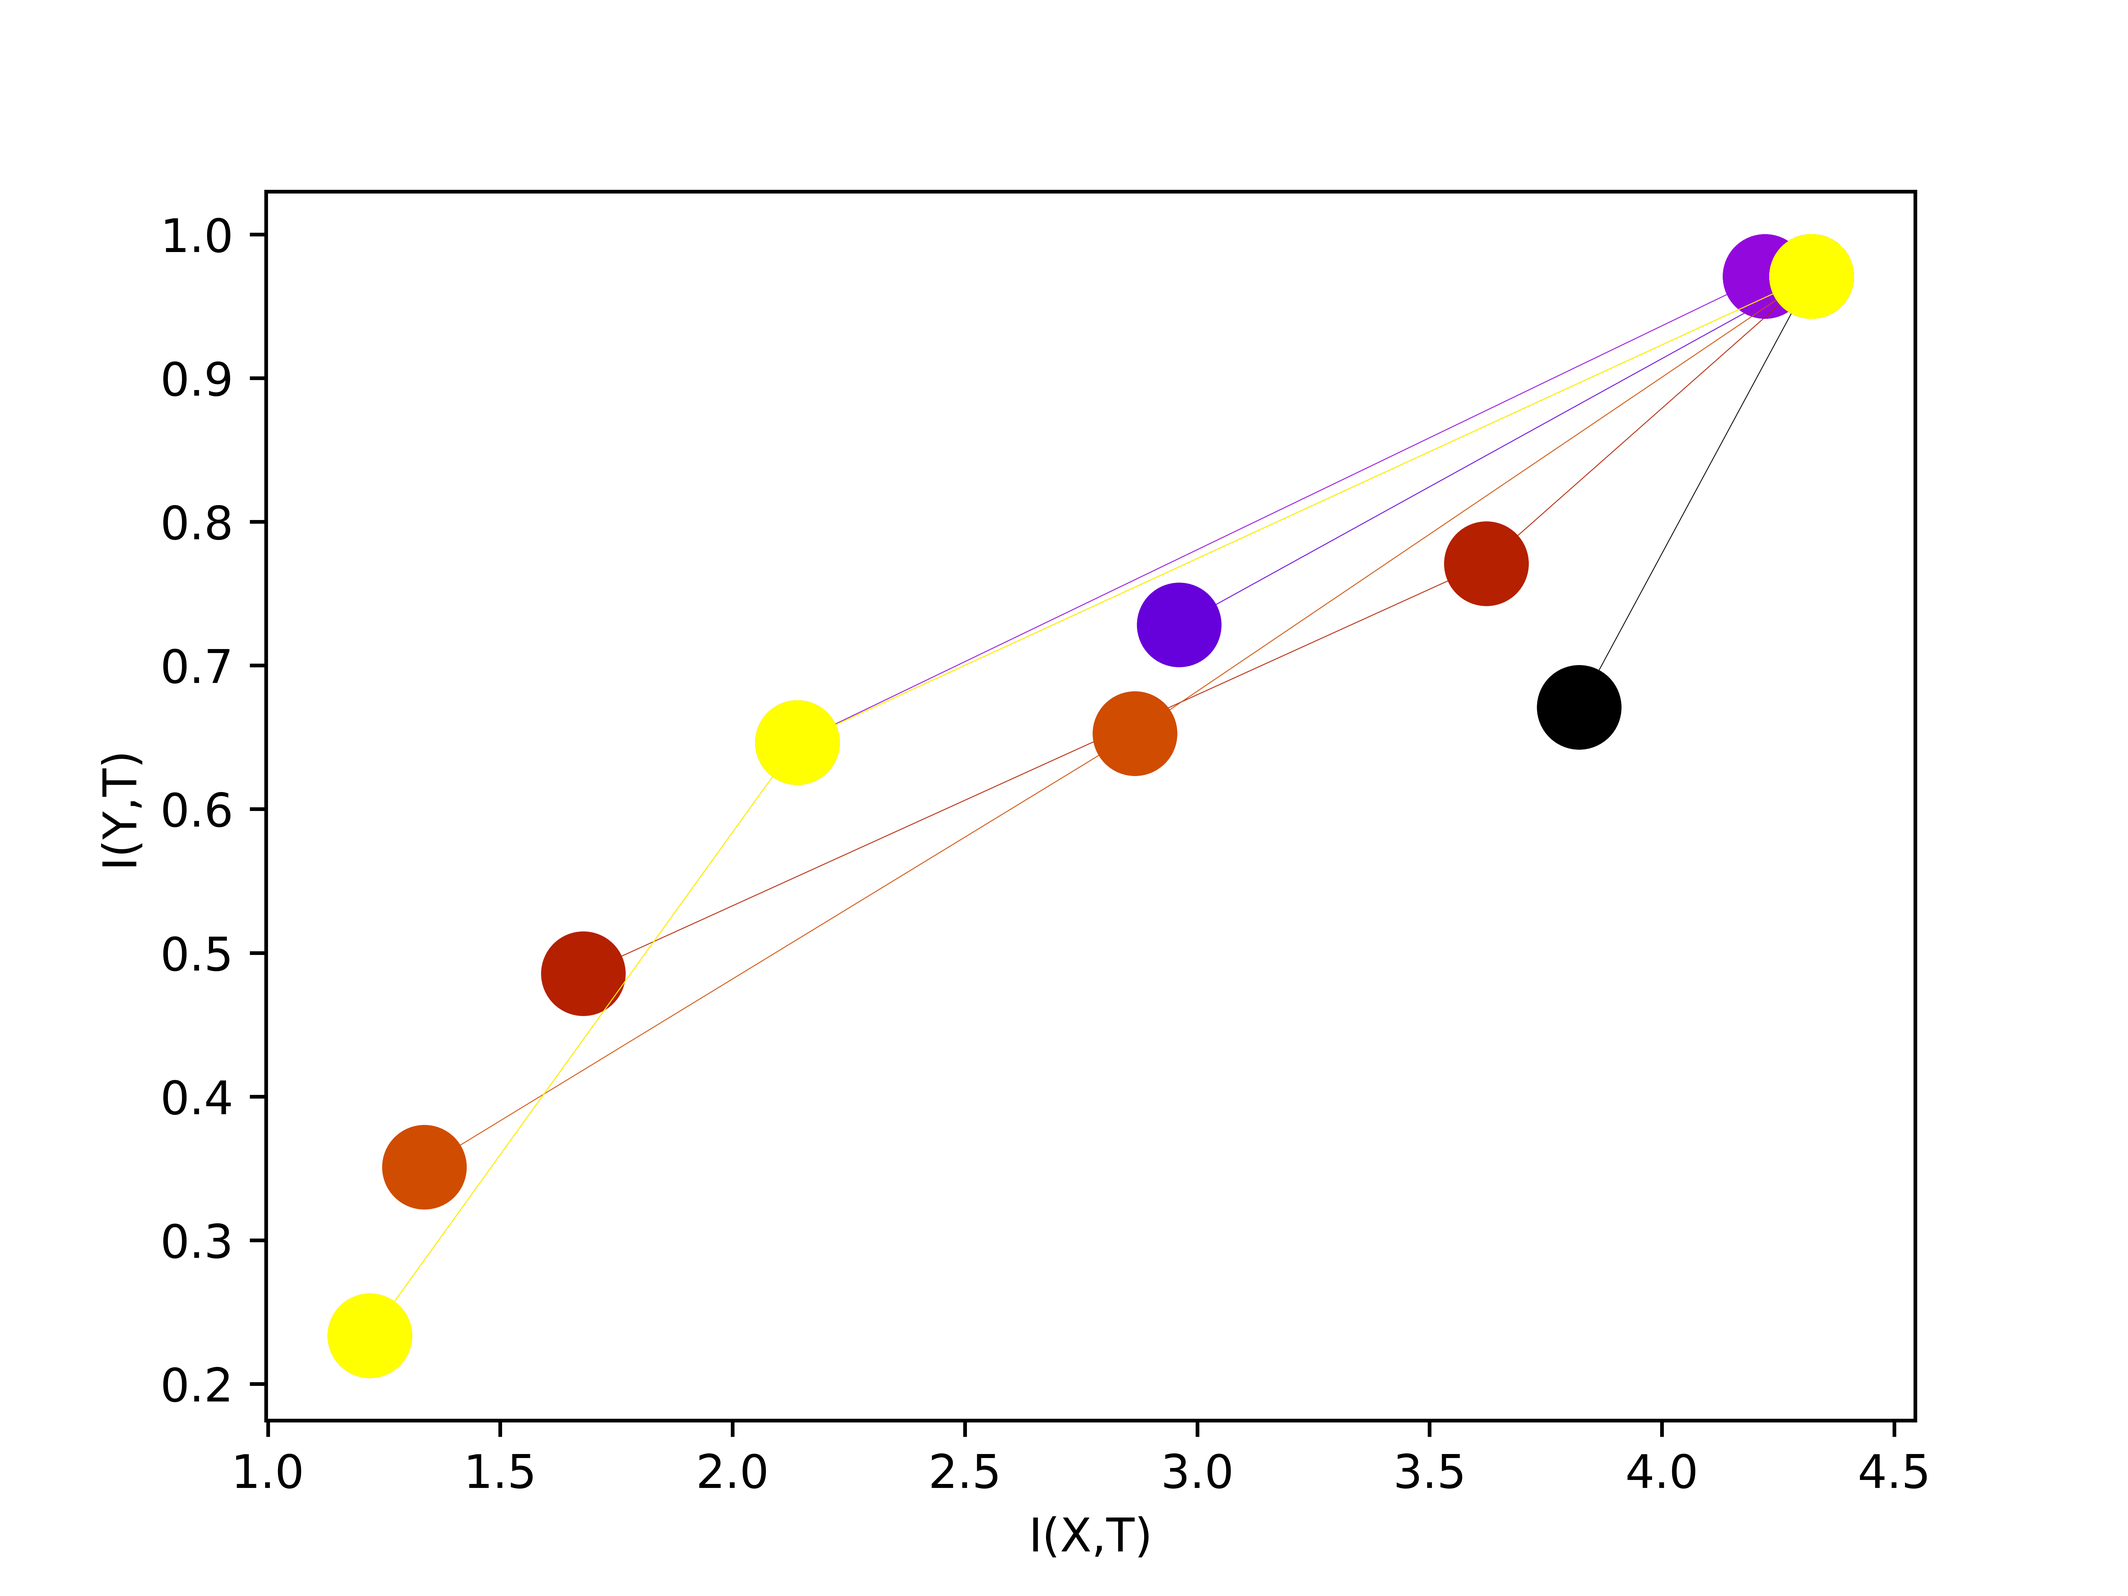
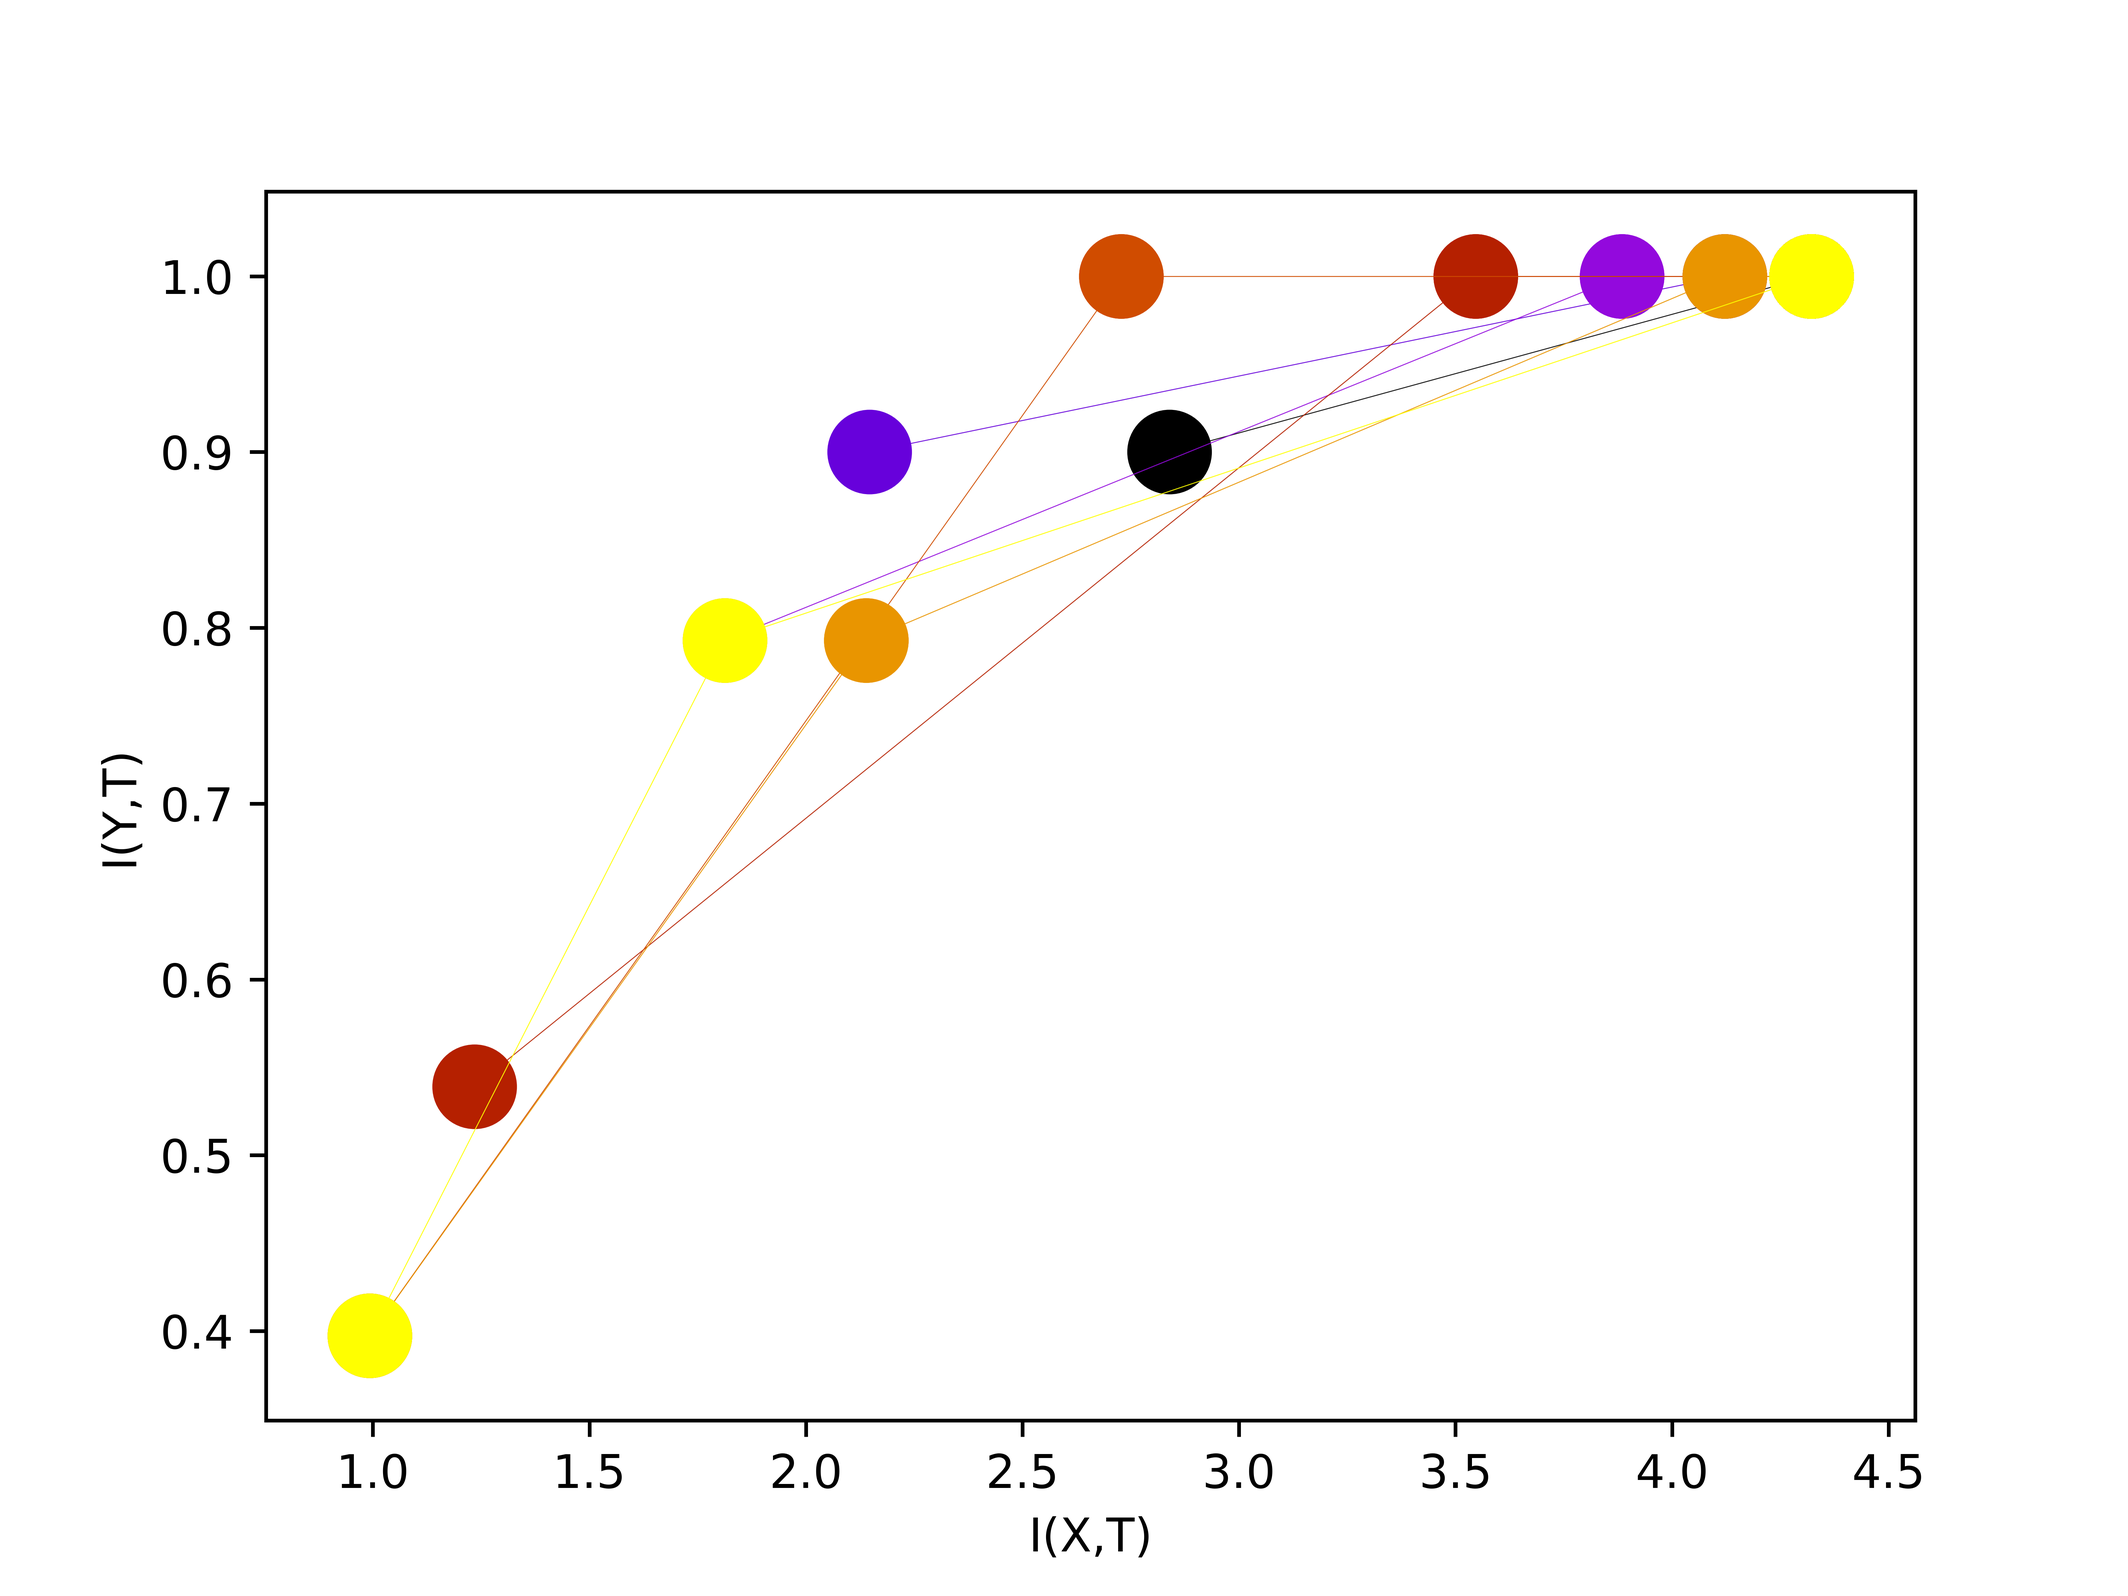
added KDE MIE from Saxe`s paper, changed tensorflow stuff to Keras stuff.

diff --git a/information/information.py b/information/information.py
@@ -1,9 +1,10 @@
 import numpy as np
 import information.WeihaoGao as wGao
 import information.NaftaliTishby as nTishby
-from utils import pairwise
+import information.kde as kde
+from utils import pairwise, add_noise, noise
 
-supported_estimators = ["KL", "KSG", "KDE", "LNN_1", "LNN_2", "Tishby"]
+supported_estimators = ["KL", "KDE"]
 
 
 def calculate_information(input_values, labels, entropy, bins):
@@ -11,13 +12,15 @@ def calculate_information(input_values, labels, entropy, bins):
         return lambda x: None
     elif entropy.startswith("bins"):
         return nTishby.__calculate_information_tishby(input_values, labels, bins)
+    elif entropy == "KDE":
+        return kde.calculate_information_saxe(input_values, labels, bins)
     elif entropy == "KSG":
         return __calculate_information_KSG(input_values, labels. bins)
     elif entropy == "bins2":
         entropy = nTishby.bin_then_entropy
     elif entropy == "KL":
         entropy = wGao.KL_entropy
-    elif entropy == "KDE":
+    elif entropy == "bad-KDE":
         entropy = wGao.KDE_entropy
     elif entropy == "LNN_2":
         entropy = wGao.LNN_2_entropy
@@ -29,23 +32,20 @@ def calculate_information(input_values, labels, entropy, bins):
     return __calculate_information_wgao(input_values, labels, entropy, bins)
 
 
-def __noise(mean=0, std=0.01):
-    return np.random.normal(mean, std, 1)[0]
-
 
 def __calculate_information_KSG(input_values, labels, bins=30):
     data_x = input_values
     data_y = labels
 
-    data_x = add_noise(input_values, __noise)
-    data_y = add_noise(labels, __noise)
+    data_x = add_noise(input_values, noise)
+    data_y = add_noise(labels, noise)
 
     def information(activation):
         data_t = activation
         #e_t = [entropy(t) for t in data_t]
 
         if bins > 0:
-            data_t = [add_noise(np.asarray(nTishby.bin_array(t, bins=bins, low=t.min(), high=t.max())), __noise) for t in data_t]
+            data_t = [add_noise(np.asarray(nTishby.bin_array(t, bins=bins, low=t.min(), high=t.max())), noise) for t in data_t]
 
         i_y_t = [wGao._KSG_mi(np.array([np.append(t, y) for t, y in zip(layer, data_y)]), split=len(layer[0])) for layer in data_t]
         i_x_t = [wGao._KSG_mi(np.array([np.append(t, x) for t, x in zip(layer, data_x)]), split=len(layer[0])) for layer in data_t]
@@ -64,8 +64,8 @@ def __calculate_information_wgao(input_values, labels, entropy, bins=30):
     data_x = input_values
     data_y = labels
 
-    data_x = add_noise(input_values, __noise)
-    data_y = add_noise(labels, __noise)
+    data_x = add_noise(input_values, noise)
+    data_y = add_noise(labels, noise)
 
     e_y = entropy(data_y)
     e_x = entropy(data_x)
@@ -77,7 +77,7 @@ def __calculate_information_wgao(input_values, labels, entropy, bins=30):
         # points have the exact same values, then a division by zero is possible.
 
         if bins > 0:
-            data_t = [add_noise(np.asarray(nTishby.bin_array(t, bins=bins, low=t.min(), high=t.max())), __noise) for t in data_t]
+            data_t = [add_noise(np.asarray(nTishby.bin_array(t, bins=bins, low=t.min(), high=t.max())), noise) for t in data_t]
 
         e_t = np.array([entropy(t) for t in data_t])
         e_t_y = [entropy(np.array([np.append(t, y) for t, y in zip(layer, data_y)])) for layer in data_t]
@@ -91,19 +91,3 @@ def __calculate_information_wgao(input_values, labels, entropy, bins=30):
         return i_x_t, i_y_t, i_t_t
 
     return information
-
-
-# addding noise is necessary to prevent infinite MI (i.e prevents division by zero for some MI estimators)
-def add_noise(data, noise_function):
-    result = []
-    for n in data:
-        if isinstance(n, np.ndarray) or isinstance(n, list):
-            new_n = add_noise(n, noise_function)
-        else:
-            new_n = __add_noise_value(n, noise_function)
-        result.append(new_n)
-    return np.array(result)
-
-
-def __add_noise_value(n, noise_function):
-    return n + noise_function()

diff --git a/information/kde.py b/information/kde.py
@@ -1,0 +1,107 @@
+import keras.backend as K
+import information.NaftaliTishby as nTishby
+from utils import add_noise, noise
+
+import numpy as np
+
+
+def Kget_dists(X):
+    """Keras code to compute the pairwise distance matrix for a set of
+    vectors specifie by the matrix X.
+    """
+    x2 = K.expand_dims(K.sum(K.square(X), axis=1), 1)
+    dists = x2 + K.transpose(x2) - 2*K.dot(X, K.transpose(X))
+    return dists
+
+
+def get_shape(x):
+    dims = K.cast(K.shape(x)[1], K.floatx())
+    N = K.cast(K.shape(x)[0], K.floatx())
+    return dims, N
+
+
+def entropy_estimator_kl(x, var):
+    # KL-based upper bound on entropy of mixture of Gaussians with covariance
+    # matrix var * I see Kolchinsky and Tracey, Estimating Mixture Entropy with
+    # Pairwise Distances, Entropy, 2017. Section 4.  and Kolchinsky and Tracey,
+    # Nonlinear Information Bottleneck, 2017. Eq. 10
+    dims, N = get_shape(x)
+    dists = Kget_dists(x)
+    dists2 = dists / (2*var)
+    normconst = (dims/2.0)*K.log(2*np.pi*var)
+    lprobs = K.logsumexp(-dists2, axis=1) - K.log(N) - normconst
+    h = -K.mean(lprobs)
+    return dims/2 + h
+
+
+def entropy_estimator_bd(x, var):
+    # Bhattacharyya-based lower bound on entropy of mixture of Gaussians with
+    # covariance matrix var * I see Kolchinsky and Tracey, Estimating Mixture
+    # Entropy with Pairwise Distances, Entropy, 2017. Section 4.
+    dims, N = get_shape(x)
+    val = entropy_estimator_kl(x,4*var)
+    return val + np.log(0.25)*dims/2
+
+
+def kde_condentropy(output, var):
+    # Return entropy of a multivariate Gaussian, in nats
+    dims = output.shape[1]
+    return (dims/2.0)*(np.log(2*np.pi*var) + 1)
+
+
+def calculate_information_saxe(input_values, labels, bins=-1):
+
+    data_x = input_values
+    data_y = labels
+
+    noise_variance = 0.05
+    Y_samples = K.placeholder(ndim=2)
+    entropy_func_upper = K.function([Y_samples,], [entropy_estimator_kl(Y_samples, noise_variance),])
+
+    data_y_no_one_hot = np.array([np.where(r==1)[0][0] for r in data_y])
+    saved_labelixs = {}
+    categories = len(data_y[0])
+    for i in range(categories):
+        saved_labelixs[i] = data_y_no_one_hot == i
+
+    labelprobs = np.mean(data_y, axis=0)
+
+    #data_x = add_noise(input_values, noise)
+    #data_y = add_noise(labels, noise)
+
+    nats2bits = 1.0 / np.log(2)
+
+    def information(activation):
+        # data_t = [add_noise(a, noise) for a in activation]
+        data_t = activation  
+        # don't think need to add noise to activations as they are produced
+        # randomly by the neural network, adding noise only prevents entropy
+        # calculations from failing in situations when 5 points have the exact
+        # same values, then a division by zero is possible.
+
+        if bins > 0:
+            data_t = [add_noise(np.asarray(nTishby.bin_array(t, bins=bins, low=t.min(), high=t.max())), noise) for t in data_t]
+
+        def info(t):
+            h_t = entropy_func_upper([t,])[0]
+            h_t_given_x = kde_condentropy(t, noise_variance)
+            h_t_given_y = 0
+            for i in range(categories):
+                h = entropy_func_upper([t[saved_labelixs[i],:],])[0]
+                h_t_given_y += labelprobs[i] * h
+            h_t_given_y
+            return nats2bits * (h_t - h_t_given_x), nats2bits * (h_t - h_t_given_y)
+
+        I = [(*info(t), 0) for t in data_t]
+        return np.array(list(zip(*I)))
+
+
+        #h_t = np.array([entropy_func_upper([t,])[0] for t in data_t])
+        #h_t_given_x = np.array([kde_condentropy(t, noise_variance) for t in data_t])
+
+
+
+        #return i_x_t, i_y_t, [0]
+
+    return information
+

diff --git a/data/data.py b/data/data.py
@@ -2,15 +2,16 @@ import numpy as np
 import os
 import sys
 import scipy.io as sio
-import tensorflow as tf
+import keras
 from sklearn.model_selection import train_test_split
-from tensorflow.keras.datasets import mnist
+from keras.datasets import mnist
 from data.fabricated import get_fabricated
 from information.Processor import InformationProcessor
 from information.ProcessorFabricatedData import InformationProcessorFabricatedData
 from information.ProcessorUnion import InformationProcessorUnion
 
 supported_data_sets = ["Tishby", "MNIST", "Fabricated"]
+__SEED__ = 2424
 
 
 def get_information_processor(params):
@@ -67,9 +68,9 @@ def get_mnist(train_size):
 
     data = data.reshape(data.shape[0], 28 * 28)
     data = data.astype('float32') / 255
-    labels = tf.keras.utils.to_categorical(labels)
+    labels = keras.utils.to_categorical(labels)
 
-    x_train, x_test, y_train, y_test = train_test_split(data, labels, train_size=train_size)
+    x_train, x_test, y_train, y_test = train_test_split(data, labels, train_size=train_size, random_state=__SEED__)
     return (x_train, y_train), (x_test, y_test), 10
 
 
@@ -79,7 +80,7 @@ def get_tishby(train_size):
     data = d['F']
     y = d['y']
     labels = np.squeeze(np.concatenate((y[None, :], 1 - y[None, :]), axis=0).T)
-    x_train, x_test, y_train, y_test = train_test_split(data, labels, train_size=train_size)
+    x_train, x_test, y_train, y_test = train_test_split(data, labels, train_size=train_size, random_state=__SEED__)
     return (x_train, y_train), (x_test, y_test), 2
 
 
@@ -94,5 +95,7 @@ def filename(params, mie=None):
         name += "_d-" + str(params.fabricated.dim)
     name += "mie-" + str(mie) + ","
     name += "bs-" + str(params.batch_size) + ","
+    if params.bins != 1:
+        name  += "b-" + str(params.bins) + ","
     name += "ns-" + str(params.shape)
     return name

diff --git a/demo.py b/demo.py
@@ -1,0 +1,38 @@
+# Simple example of how to estimate MI between X and Y, where Y = f(X) + Noise(0, noise_variance)
+from __future__ import print_function
+import information.kde as kde
+import tensorflow.keras.backend as K
+import numpy as np
+
+Y_samples = K.placeholder(ndim=2)     
+
+noise_variance = 0.05
+entropy_func_upper = K.function([Y_samples,], [kde.entropy_estimator_kl(Y_samples, noise_variance),])
+entropy_func_lower = K.function([Y_samples,], [kde.entropy_estimator_bd(Y_samples, noise_variance),])
+
+data = np.random.random(size=(1000, 20))  # N x dims
+H_Y_given_X = kde.kde_condentropy(data, noise_variance)
+H_Y_upper = entropy_func_upper([data, ])[0]
+H_Y_upper = kde.entropy_estimator_kl(data, noise_variance)
+H_Y_lower = entropy_func_lower([data, ])[0]
+
+print("Upper bound: %0.3f nats" % (H_Y_upper - H_Y_given_X))
+print("Lower bound: %0.3f nats" % (H_Y_lower - H_Y_given_X))
+
+# Alternative calculation, direct from distance matrices
+dims, N = kde.get_shape(K.variable(data))
+dists = kde.Kget_dists(K.variable(data))
+dists2 = dists / (2*noise_variance)
+mi2 = K.eval(-K.mean(K.logsumexp(-dists2, axis=1) - K.log(N)))
+print("Upper bound2: %0.3f nats" % mi2)
+
+
+dims, N = kde.get_shape(K.variable(data))
+dists = kde.Kget_dists(K.variable(data))
+dists2 = dists / (2*4*noise_variance)
+mi2 = K.eval(-K.mean(K.logsumexp(-dists2, axis=1) - K.log(N)) )
+print("Lower bound2: %0.3f nats" % mi2)
+
+# [np.where(r==1)[0][0] for r in data_y]
+
+

diff --git a/networks/networks.py b/networks/networks.py
@@ -1,14 +1,14 @@
-import tensorflow as tf
-from tensorflow.keras.layers import Dropout, Dense, BatchNormalization
-from tensorflow.keras import Sequential
-from tensorflow.keras.datasets import mnist
-from tensorflow.keras import backend as K
+import keras
+from keras.layers import Dropout, Dense, BatchNormalization
+from keras import Sequential
+from keras.datasets import mnist
+from keras import backend as K
 
 activation_functions = ["tanh, sigmoid, relu, linear"]
 
 
 def get_model_categorical(input_shape, network_shape, categories=2, activation='tanh'):
-    tf.logging.set_verbosity(tf.logging.ERROR)  # ignores warning caused by callbacks being expensive
+    #tf.logging.set_verbosity(tf.logging.ERROR)  # ignores warning caused by callbacks being expensive
     model = Sequential()
     network_shape = network_shape.split(',')
 
@@ -68,8 +68,8 @@ def train_the_model_get_distribution(random=42):
     x_train = x_train.astype('float32') / 255
     x_test = x_test.astype('float32') / 255
 
-    y_train = tf.keras.utils.to_categorical(y_train)
-    y_test = tf.keras.utils.to_categorical(y_test)
+    y_train = keras.utils.to_categorical(y_train)
+    y_test = keras.utils.to_categorical(y_test)
 
     model = Sequential()
     model.add(Dense(16, activation='tanh', input_shape=x_train[0].shape))

diff --git a/parameters.py b/parameters.py
@@ -66,11 +66,8 @@ def parameters():
     parser.add_argument('--mi_estimator',
                         '-mie', dest='mi_estimator', default="Tishby",
                         help="Choose what mutual information estimator to use available: {}, ".format(estimators) +
-                             "Tishby - method used by Tishby in his paper, (bins == bins-30)"
-                             "KDE - Kernel density estimator, "
-                             "KSG - KSG mutual information estimator"
-                             "KL - Kozachenko-Leonenko estimator, "
-                             "LNN_1, LNN_2 - Local nearest neighbour with order 1 or 2")
+                             "Tishby - method used by Tishby in his paper, "
+                             "KDE - Kernel density estimator")
 
     parser.add_argument('--bins',
                         '-b', dest='bins', default=-1, type=int,

diff --git a/utils.py b/utils.py
@@ -1,7 +1,28 @@
 import itertools
+import numpy as np
 
 
 def pairwise(itt):
     a, b = itertools.tee(itt)
     next(b, None)
     return zip(a, b)
+
+
+def noise(mean=0, std=0.01):
+    return np.random.normal(mean, std, 1)[0]
+
+
+# addding noise is necessary to prevent infinite MI (i.e prevents division by zero for some MI estimators)
+def add_noise(data, noise_function):
+    result = []
+    for n in data:
+        if isinstance(n, np.ndarray) or isinstance(n, list):
+            new_n = add_noise(n, noise_function)
+        else:
+            new_n = __add_noise_value(n, noise_function)
+        result.append(new_n)
+    return np.array(result)
+
+
+def __add_noise_value(n, noise_function):
+    return n + noise_function()

diff --git a/information/CalculateInformationCallback.py b/information/CalculateInformationCallback.py
@@ -1,5 +1,5 @@
-import tensorflow.keras as keras
-from tensorflow.keras import backend as K
+import keras as keras
+from keras import backend as K
 from tqdm import tqdm
 
 
